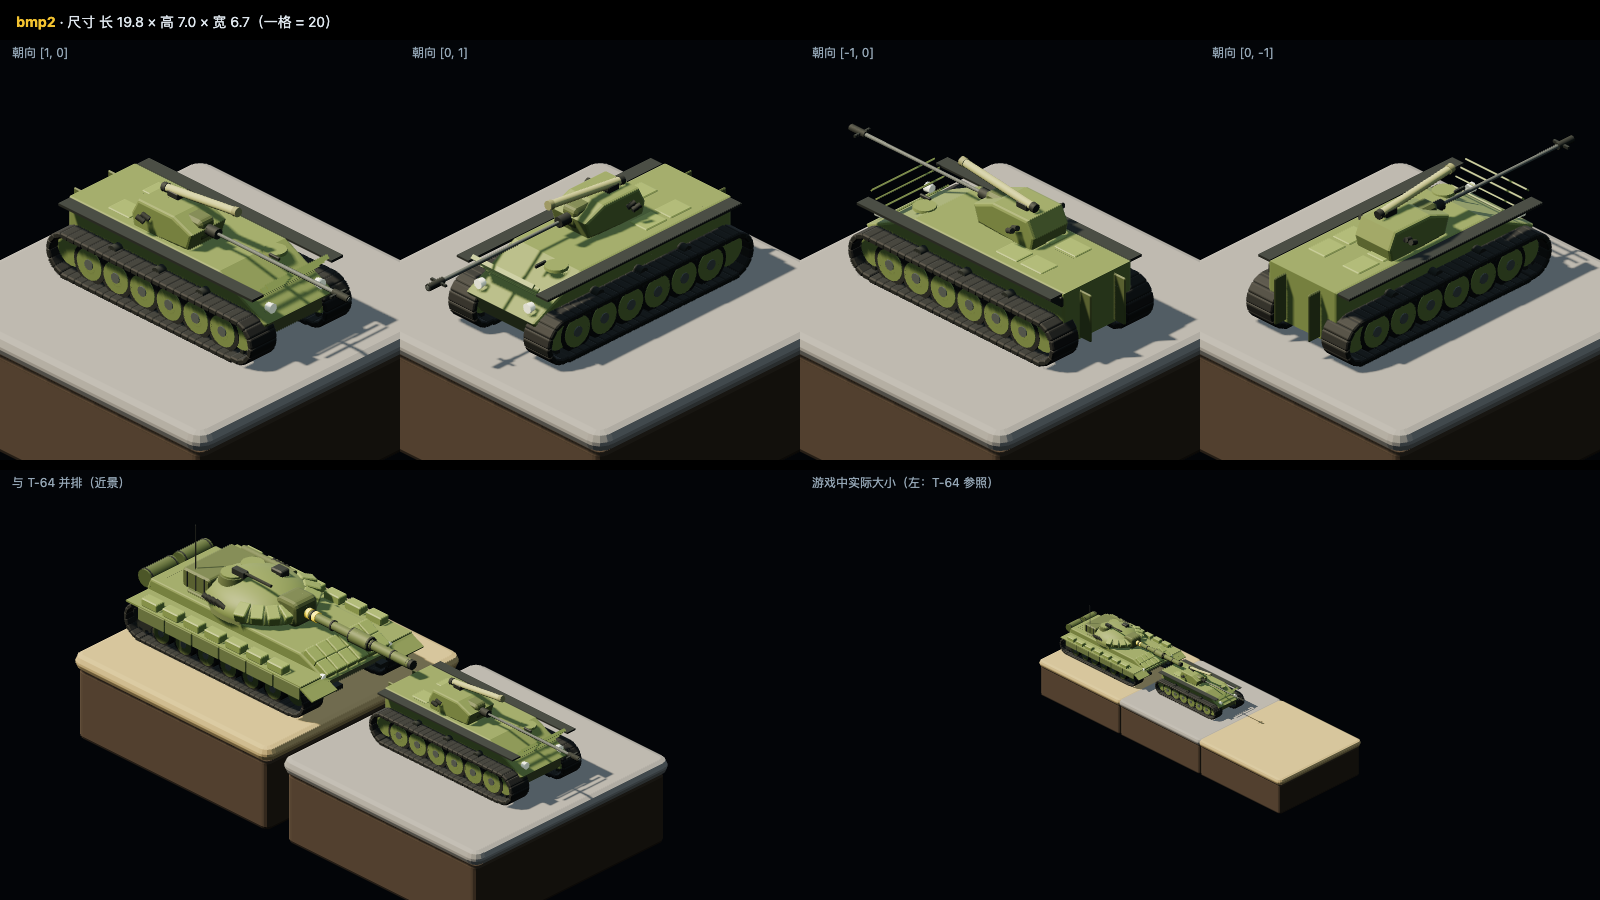
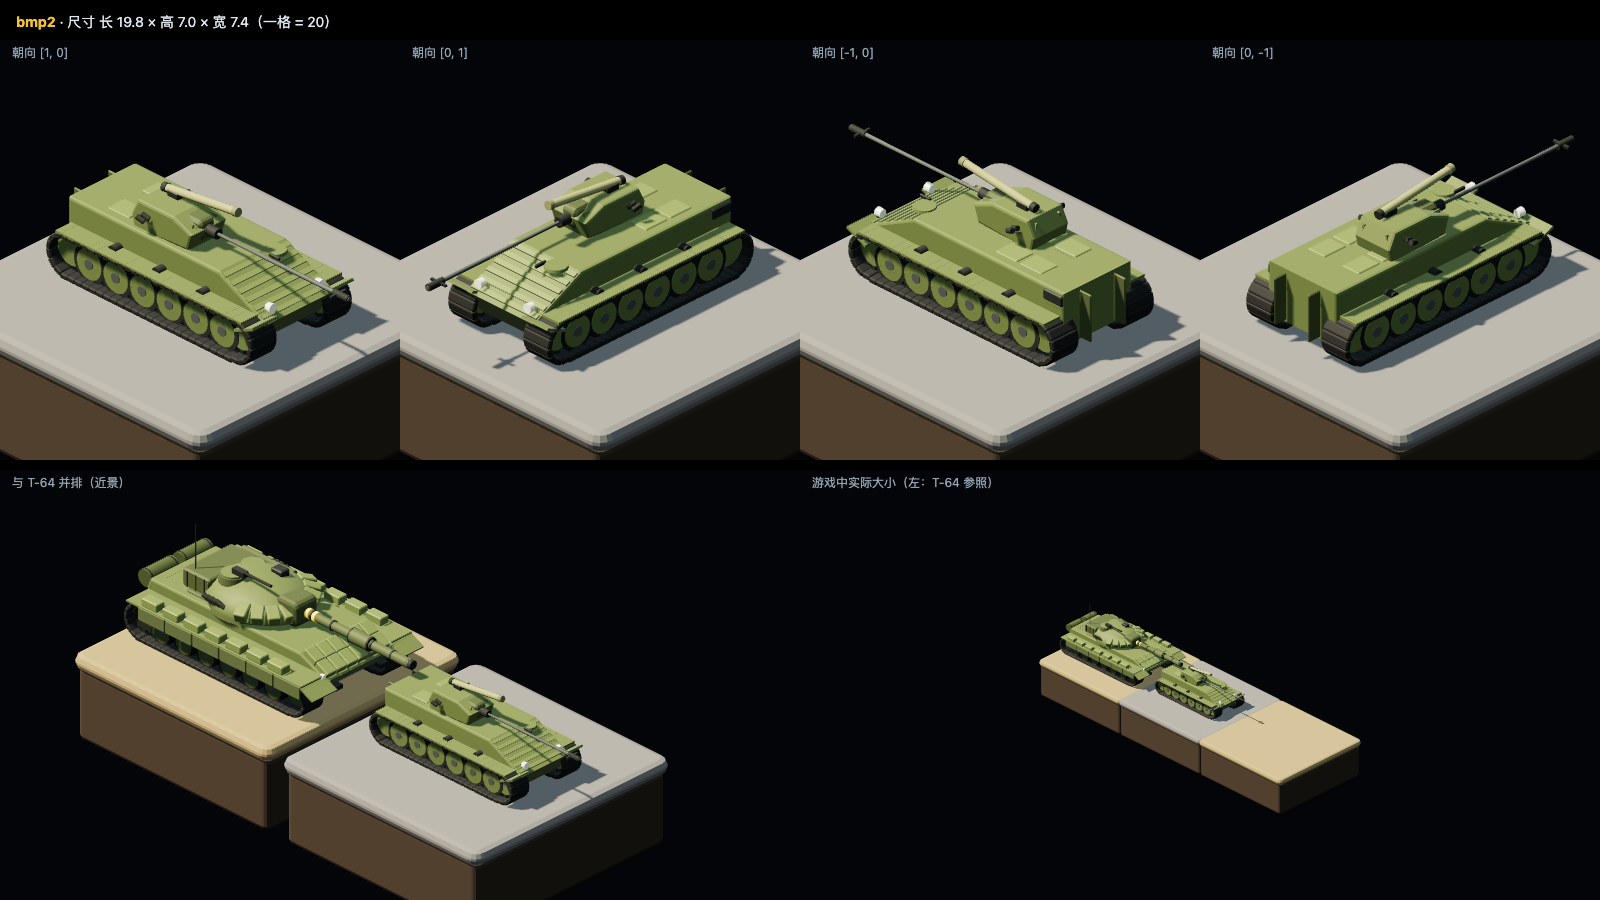
T-22: 第 2 轮修改（加强筋贴斜面、挡泥板薄板主色、炮塔内倾侧板）

diff --git a/game/js/models3d.js b/game/js/models3d.js
@@ -526,10 +526,13 @@ function m3Bmp2() {
   }
   // 2. hull: low wedge with the long corrugated glacis
   part(T, profile([[-7.0, 1.1], [6.3, 1.0], [7.15, 2.3], [3.8, 3.95], [-7.0, 3.95]], 5.0), OL, 0, 0, 0);
-  const rib = new THREE.Group(); rib.position.set(5.35, 2.5, 0); rib.rotation.z = -0.745; T.add(rib);
-  for (let k = 0; k < 6; k++) part(rib, new THREE.BoxGeometry(0.26, 0.09, 4.5), LT, 0, k * 0.52, 0);
+  const rib = new THREE.Group(); rib.position.set(5.475, 3.125, 0); rib.rotation.z = -0.459; T.add(rib);
+  for (let k = 0; k < 6; k++) part(rib, new THREE.BoxGeometry(0.3, 0.2, 4.8), LT, -1.55 + k * 0.62, 0.12, 0);
   // 3. side fender strip, rear doors with windows and handles
-  for (const s of [-1, 1]) part(T, new THREE.BoxGeometry(14.2, 0.14, 0.85), DKS, 0.05, 4.02, s * 2.9);
+  for (const s of [-1, 1]) {
+    part(T, new THREE.BoxGeometry(13.6, 0.15, 1.9), OL, -0.1, 2.62, s * 2.75);
+    part(T, new THREE.BoxGeometry(1.5, 0.15, 1.9), OL, 6.85, 2.32, s * 2.75, 0, 0, 0.42);
+  }
   for (const s of [-1, 1]) {
     part(T, rbox(1.7, 2.7, 0.14, 0.06, 1), OD, -7.05, 2.45, s * 1.25);
     part(T, rbox(0.55, 0.4, 0.08, 0.03, 1), GLS, -7.12, 3.35, s * 1.25);
@@ -542,6 +545,7 @@ function m3Bmp2() {
   // 5. turret offset to the left: flat beveled profile, smoke dischargers on both sides
   const Tu = new THREE.Group(); Tu.name = 'turret'; Tu.position.set(-0.8, 4.05, 0.85); T.add(Tu);
   part(Tu, profile([[-1.8, 0], [1.9, 0.22], [2.15, 1.0], [0.9, 1.5], [-1.55, 1.5], [-1.95, 0.7]], 2.6), OL, 0, 0, 0);
+  for (const s of [-1, 1]) part(Tu, new THREE.BoxGeometry(3.9, 1.3, 0.12), OL, 0.05, 0.8, s * 1.0, s * -0.3, 0, 0);
   for (const s of [-1, 1]) for (let k = 0; k < 3; k++) part(Tu, cyl(0.15, 0.15, 0.5, 12), DKS, -0.9, 1.0, s * (1.05 + k * 0.38), 0.5 * s, 0, HALF_PI * 0.72);
   // 6. 2A42 30 mm cannon: root sleeve, long thin barrel, perforated muzzle brake
   part(Tu, rbox(1.5, 0.85, 1.1, 0.18, 1), OD, 1.35, 0.95, 0);

diff --git a/docs/tasks/T-22-精修BMP-2.md b/docs/tasks/T-22-精修BMP-2.md
@@ -73,6 +73,23 @@
 
 需审查方决定的问题：无。
 
+**第 2 轮（执行方：ZCode）**
+
+按第 1 轮审查意见逐条修改：
+1. **加强筋贴斜面**：照 `m3T64` 首上反应装甲的写法——组放在首上装甲斜面中点 (5.475, 3.125)，`rotation.z = Math.atan2` 算出的斜面倾角 -0.459（用车体 profile 的两个首上点 (7.15, 2.3)→(3.8, 3.95) 计算）；6 根筋放进组里，局部 y = 0.12（高出表面 0.12），筋为贴面矮条（0.3 × 0.2 × 4.8，沿 z 横贯车宽）。改后四个朝向的筋都紧贴斜面（bmp2.png 朝向 [1,0]/[0,1] 可见筋线随斜面起伏）。
+2. **挡泥板**：删除原来高出车体上缘的又黑又厚长条（y 4.02）；改为薄板（厚 0.15）、主色 `#5b6636`、放在履带正上方略高于履带顶面（y 2.62，履带顶 2.5），长度盖住履带（13.6），前端另有一小段向下斜的板（rotation.z 0.42）——不再高出车体侧面上缘。
+3. 采纳可选建议：炮塔两侧加向内收的斜板（rotation.x ∓0.3），不再像方盒子。
+
+自测：
+- `node tools/check.js`：✓ 语法（19 个文件）；✓ 范围（仅 models3d.js）。
+- `node tools/playtest.js /tmp/pt-T-22r2`：`ERRORS none`，退出码 0。
+- `node tools/shot3d.js /tmp/s3-T-22r2`：`SHOT3D OK`，退出码 0；`model-shot` bmp2：`MODEL OK`。
+- `bmp2.png` 重拍并逐张目检：加强筋贴斜面、挡泥板薄板贴履带、炮塔内倾，四朝向无悬空零件。
+
+需审查方决定的问题：无。
+
+## 审查意见（审查方写）
+
 ## 审查意见（审查方写）
 
 ## 审查意见（审查方写）
